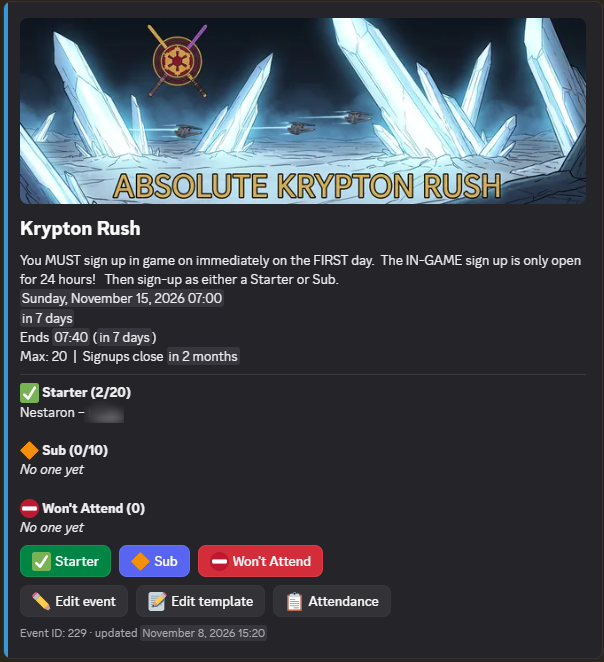
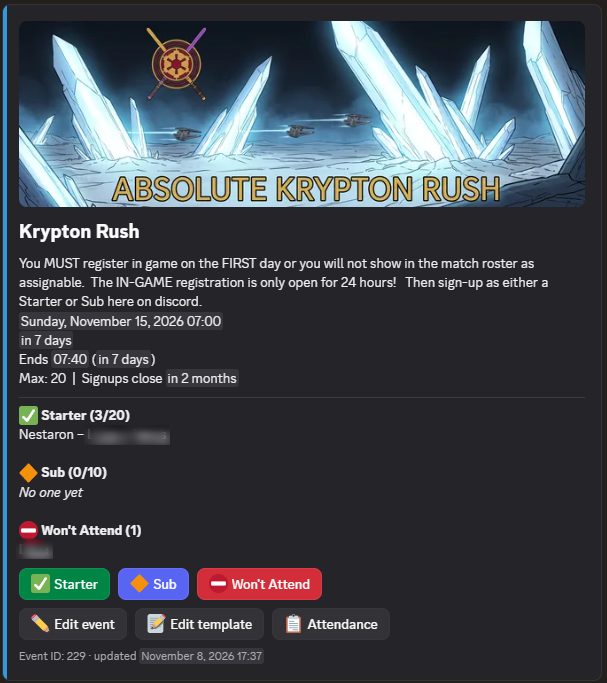
Fixed grammar issue with screenshot for event-post

Changed region(s): [[0.0, 0.0, 0.9834, 0.997], [0.2384, 0.0302, 0.3576, 0.1511]]

diff --git a/index.html b/index.html
@@ -35,7 +35,7 @@ description: "A Discord bot for gaming guilds and leagues: events and sign-ups, 
         </ul>
       </div>
       <figure class="shot">
-        <div class="frame"><img src="/images/event-post.png" width="604" height="662" alt="An event post in Discord for Absolute Krypton Rush, with its banner, description, start time, sign-up lists for Starter, Sub and Won't Attend, and buttons to sign up, edit the event and take attendance."></div>
+        <div class="frame"><img src="/images/event-post.png" width="607" height="683" alt="An event post in Discord for Absolute Krypton Rush, with its banner, description, start time, sign-up lists for Starter, Sub and Won't Attend, and buttons to sign up, edit the event and take attendance."></div>
         <figcaption><strong>An event post.</strong> One press to sign up; the lists and counts update for everyone.</figcaption>
       </figure>
     </div>
